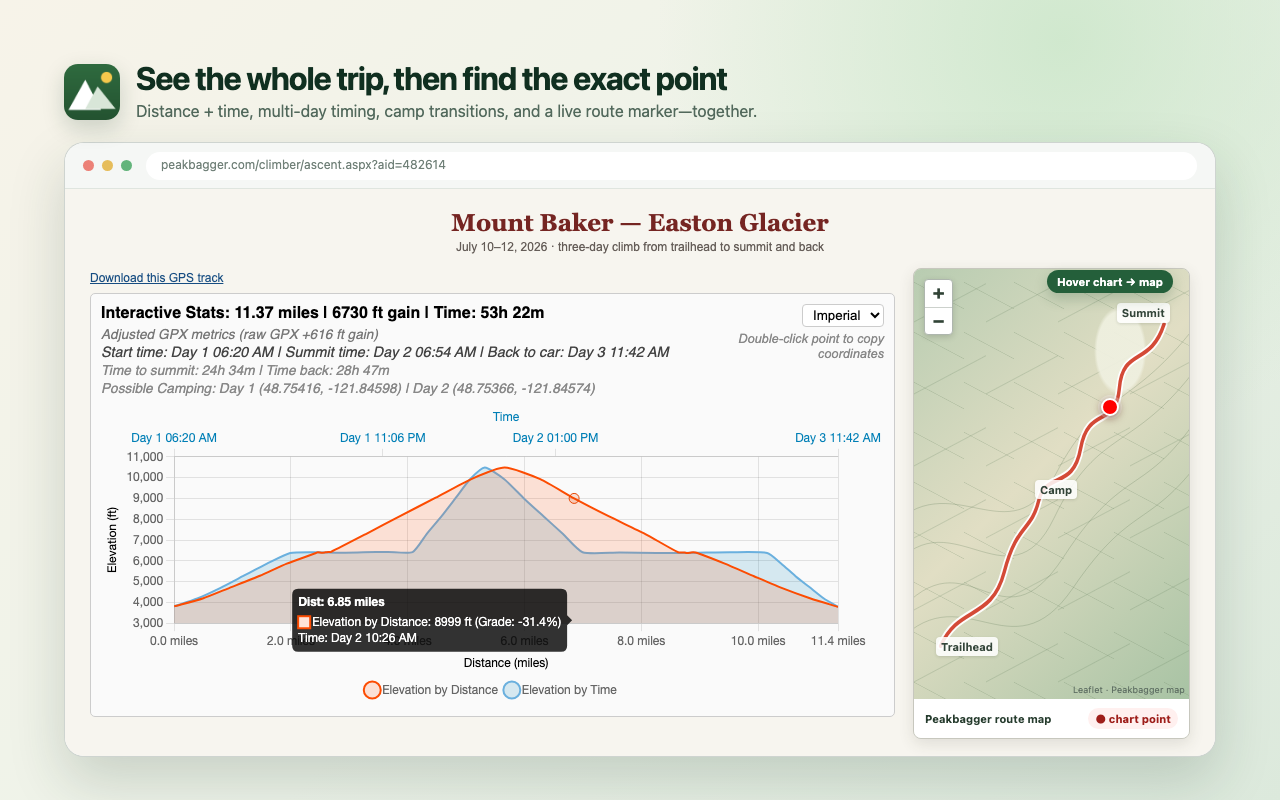
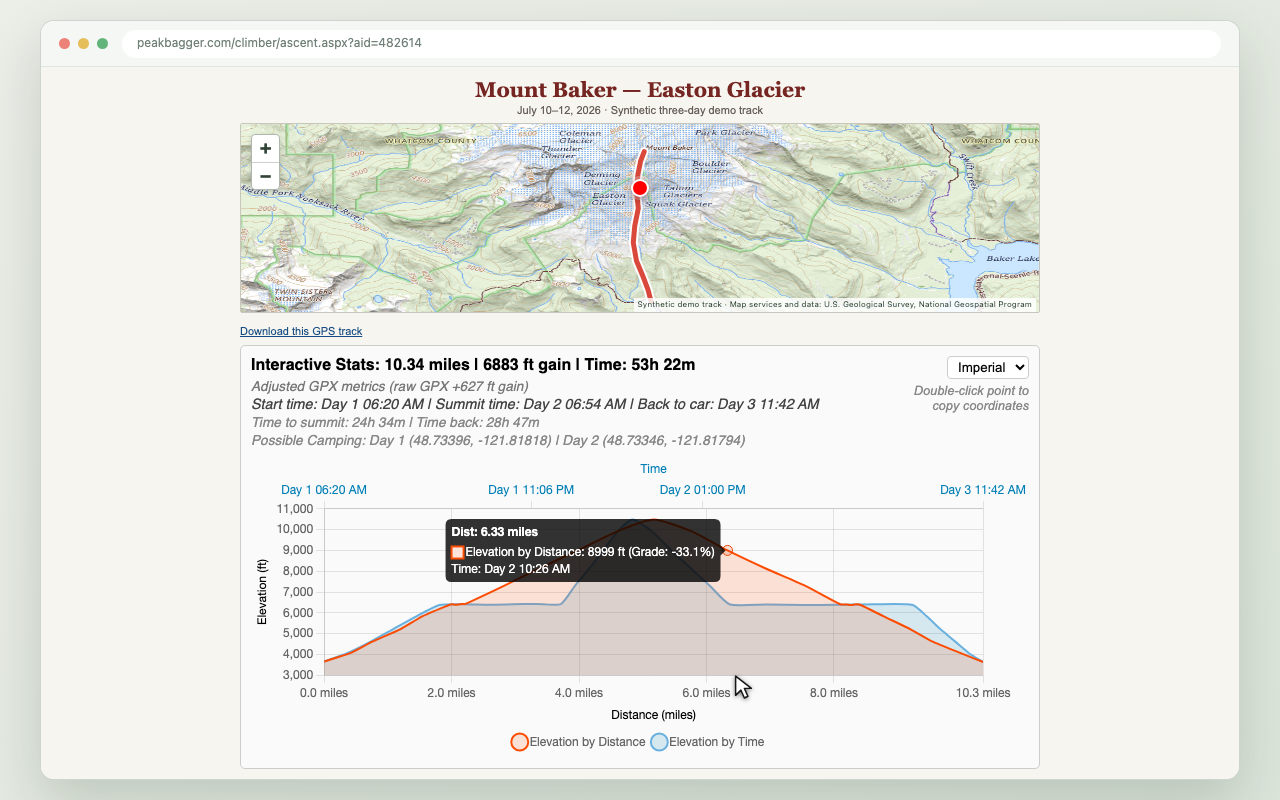
docs: rebuild realistic GPX showcase

diff --git a/scripts/showcase/showcase.css b/scripts/showcase/showcase.css
@@ -239,66 +239,71 @@ body {
 
 /* GPX scene --------------------------------------------------------------- */
 
+.gpx-showcase-page {
+    background: linear-gradient(145deg, #eceee8 0%, #dce5da 100%);
+}
+
+.gpx-showcase {
+    padding: 20px 40px;
+}
+
+.gpx-showcase .browser {
+    height: 760px;
+    margin-top: 0;
+    border-radius: 14px;
+}
+
 .gpx-stage {
     position: relative;
     height: calc(100% - 46px);
-    padding: 20px 25px 18px;
+    overflow: hidden;
+    padding: 11px 25px 12px;
     color: #291d19;
     background: #f7f5ef;
     font-family: Arial, Helvetica, sans-serif;
 }
 
-.gpx-title { text-align: center; }
-.gpx-title h2 { margin: 0; color: #752522; font-family: Georgia, serif; font-size: 24px; }
-.gpx-title p { margin: 4px 0 0; color: #655d58; font-size: 12px; }
-
-.gpx-columns {
-    display: grid;
-    grid-template-columns: 805px 1fr;
-    gap: 18px;
-    align-items: start;
-    margin-top: 14px;
+.gpx-page {
+    width: 800px;
+    margin: 0 auto;
 }
 
-.analyzer-column > a { color: #174d82; font-size: 12px; }
-.analyzer-column > div { width: 100%; max-width: none !important; margin-top: 7px !important; }
-.analyzer-column > div > div:first-child > div:last-child { flex: 0 0 155px; }
-.analyzer-column > div > div:first-child > div:last-child > div { max-width: 155px; text-align: right; }
+.gpx-title { text-align: center; }
+.gpx-title h2 { margin: 0; color: #752522; font-family: Georgia, serif; font-size: 21px; }
+.gpx-title p { margin: 2px 0 0; color: #655d58; font-size: 11px; }
+
+.analyzer-column > a { color: #174d82; font-size: 11px; }
+.analyzer-column > div { margin-top: 6px !important; }
+.analyzer-column > div > div:first-child > div:last-child { flex: 0 0 145px; }
+.analyzer-column > div > div:first-child > div:last-child > div { max-width: 145px; text-align: right; }
 .analyzer-column canvas { max-width: 100%; }
 
 .map-card {
     position: relative;
+    width: 800px;
+    height: 190px;
+    margin: 7px 0 8px;
     overflow: hidden;
     border: 1px solid #c7c7be;
-    border-radius: 8px;
+    border-radius: 2px;
     background: #e4eadc;
-    box-shadow: 0 5px 15px rgba(57, 54, 43, .12);
 }
 
-.map-card iframe { display: block; width: 100%; height: 430px; border: 0; }
+.map-card iframe { display: block; width: 100%; height: 190px; border: 0; }
 
-.map-caption {
-    display: flex;
-    align-items: center;
-    justify-content: space-between;
-    padding: 9px 11px;
-    color: #555a53;
-    background: #fff;
-    font: 11px/1.2 -apple-system, BlinkMacSystemFont, "Segoe UI", sans-serif;
-}
-
-.map-caption strong { color: #263c2e; }
-.live-pill { border-radius: 999px; padding: 4px 7px; color: #9e1e1a; background: #fff0ef; font-weight: 750; }
-
-.feature-badge {
+.showcase-cursor {
     position: absolute;
-    z-index: 4;
-    right: 42px;
-    top: 81px;
-    border-radius: 999px;
-    padding: 6px 10px;
-    color: #fff;
-    background: #245f3a;
-    box-shadow: 0 6px 14px rgba(21, 74, 40, .22);
-    font: 700 11px/1 -apple-system, BlinkMacSystemFont, "Segoe UI", sans-serif;
+    z-index: 6;
+    width: 21px;
+    height: 27px;
+    transform: translate(5px, 4px);
+    pointer-events: none;
+    filter: drop-shadow(0 1px 2px rgba(0, 0, 0, .5));
+}
+
+.showcase-cursor svg { display: block; width: 100%; height: 100%; }
+.showcase-cursor path { fill: #fff; stroke: #171717; stroke-width: 1.7; stroke-linejoin: round; }
+
+@media (prefers-reduced-motion: reduce) {
+    .showcase-cursor { transition: none; }
 }

diff --git a/scripts/showcase/map.html b/scripts/showcase/map.html
@@ -9,32 +9,16 @@
     html, body { width: 100%; height: 100%; margin: 0; overflow: hidden; }
     body {
       position: relative;
-      background:
-        radial-gradient(ellipse at 75% 19%, rgba(239,240,224,.92) 0 8%, transparent 9%),
-        linear-gradient(28deg, transparent 47%, rgba(112,137,103,.28) 48%, transparent 49%) 0 0/50px 50px,
-        linear-gradient(152deg, transparent 47%, rgba(95,124,91,.22) 48%, transparent 49%) 0 0/72px 72px,
-        linear-gradient(135deg, #b8ccb1 0%, #e1dec4 46%, #a8c3a4 100%);
+      background: #e8e8dc;
       font: 11px/1.2 -apple-system, BlinkMacSystemFont, "Segoe UI", sans-serif;
       color: #314336;
     }
 
-    svg { position: absolute; inset: 0; width: 100%; height: 100%; }
-    .route-shadow { fill: none; stroke: rgba(255,255,255,.95); stroke-width: 8; stroke-linecap: round; stroke-linejoin: round; }
-    .route { fill: none; stroke: #d44a37; stroke-width: 4; stroke-linecap: round; stroke-linejoin: round; }
-    .contour { fill: none; stroke: rgba(79,108,75,.25); stroke-width: 1; }
-
-    .label {
-      position: absolute;
-      border-radius: 4px;
-      padding: 3px 5px;
-      color: #34463a;
-      background: rgba(255,255,255,.86);
-      box-shadow: 0 1px 3px rgba(37,55,42,.15);
-      font-weight: 700;
-    }
-    .trailhead { left: 8%; bottom: 10%; }
-    .camp { left: 44%; top: 49%; }
-    .summit { right: 7%; top: 8%; }
+    .basemap, svg { position: absolute; inset: 0; width: 100%; height: 100%; }
+    .basemap { object-fit: cover; }
+    .route-shadow, .route { fill: none; stroke-linecap: round; stroke-linejoin: round; vector-effect: non-scaling-stroke; }
+    .route-shadow { stroke: rgba(255,255,255,.96); stroke-width: 9; }
+    .route { stroke: #d9483b; stroke-width: 5; }
 
     .leaflet-control {
       position: absolute;
@@ -49,7 +33,15 @@
     }
     .leaflet-control b { width: 27px; height: 27px; text-align: center; font-size: 19px; line-height: 25px; }
     .leaflet-control b + b { border-top: 1px solid #ccd1cc; }
-    .attribution { position: absolute; right: 4px; bottom: 3px; color: #607064; font-size: 9px; }
+    .attribution {
+      position: absolute;
+      right: 3px;
+      bottom: 2px;
+      padding: 2px 4px;
+      color: #394d40;
+      background: rgba(255,255,255,.82);
+      font-size: 8px;
+    }
 
     .track-marker {
       position: absolute;
@@ -66,27 +58,44 @@
   </style>
 </head>
 <body>
-  <svg viewBox="0 0 320 430" preserveAspectRatio="none" aria-hidden="true">
-    <path class="contour" d="M-20 345 C65 260 99 387 174 288 S270 234 344 130"/>
-    <path class="contour" d="M-25 379 C55 298 112 411 185 319 S275 266 350 171"/>
-    <path class="contour" d="M-30 305 C38 220 110 344 163 249 S257 187 338 88"/>
-    <path class="contour" d="M-30 261 C42 191 112 292 165 205 S252 143 332 52"/>
-    <path class="route-shadow" d="M31 377 C52 336 90 352 105 303 S136 263 145 232 S185 222 194 179 S235 160 239 119 S275 98 291 55"/>
-    <path class="route" d="M31 377 C52 336 90 352 105 303 S136 263 145 232 S185 222 194 179 S235 160 239 119 S275 98 291 55"/>
+  <img class="basemap" src="/scripts/showcase/usgs-topo.png" alt="">
+  <svg viewBox="0 0 1000 1000" preserveAspectRatio="none" aria-hidden="true">
+    <polyline class="route-shadow" id="route-shadow"/>
+    <polyline class="route" id="route"/>
   </svg>
-  <span class="label trailhead">Trailhead</span>
-  <span class="label camp">Camp</span>
-  <span class="label summit">Summit</span>
   <span class="leaflet-control"><b>+</b><b>−</b></span>
-  <span class="attribution">Leaflet · Peakbagger map</span>
+  <span class="attribution">Synthetic demo track · Map services and data: U.S. Geological Survey, National Geospatial Program</span>
 
   <script>
-    const map = window.mapsPlaceholder = {};
+    const bounds = { west: -122.005, east: -121.625, south: 48.699875, north: 48.790125 };
+    const routePoints = [
+      [48.7061, -121.8098],
+      [48.7114, -121.8112],
+      [48.7183, -121.8138],
+      [48.7252, -121.8167],
+      [48.7338, -121.8182],
+      [48.7417, -121.8175],
+      [48.7501, -121.8158],
+      [48.7584, -121.8167],
+      [48.7661, -121.8160],
+      [48.7725, -121.8147],
+      [48.7770, -121.8130]
+    ];
+
     const pointToPercent = ([lat, lon]) => {
-      const x = 9 + ((lon + 121.88) / .07) * 82;
-      const y = 89 - ((lat - 48.72) / .08) * 80;
-      return [Math.max(5, Math.min(95, x)), Math.max(5, Math.min(95, y))];
+      const x = ((lon - bounds.west) / (bounds.east - bounds.west)) * 100;
+      const y = ((bounds.north - lat) / (bounds.north - bounds.south)) * 100;
+      return [Math.max(1, Math.min(99, x)), Math.max(1, Math.min(99, y))];
     };
+
+    const projectedRoute = routePoints.map(point => {
+      const [x, y] = pointToPercent(point);
+      return `${(x * 10).toFixed(2)},${(y * 10).toFixed(2)}`;
+    }).join(' ');
+    document.getElementById('route-shadow').setAttribute('points', projectedRoute);
+    document.getElementById('route').setAttribute('points', projectedRoute);
+
+    const map = window.mapsPlaceholder = {};
 
     window.L = {
       circleMarker(latLng, options) {

diff --git a/scripts/showcase/gpx.html b/scripts/showcase/gpx.html
@@ -16,36 +16,26 @@
     });
   </script>
 </head>
-<body>
-  <main class="showcase">
-    <header class="showcase-head">
-      <span class="showcase-logo" aria-hidden="true"></span>
-      <div>
-        <h1>See the whole trip, then find the exact point</h1>
-        <p class="showcase-subtitle">Distance + time, multi-day timing, camp transitions, and a live route marker—together.</p>
-      </div>
-    </header>
-
+<body class="gpx-showcase-page">
+  <main class="showcase gpx-showcase">
     <section class="browser">
       <div class="browser-bar">
         <span class="traffic-lights"><i></i><i></i><i></i></span>
         <div class="address">peakbagger.com/climber/ascent.aspx?aid=482614</div>
       </div>
       <div class="gpx-stage">
-        <div class="gpx-title">
-          <h2>Mount Baker — Easton Glacier</h2>
-          <p>July 10–12, 2026 · three-day climb from trailhead to summit and back</p>
-        </div>
-        <div class="gpx-columns">
-          <div class="analyzer-column">
-            <a href="/scripts/showcase/multiday.gpx">Download this GPS track</a>
+        <div class="gpx-page">
+          <div class="gpx-title">
+            <h2>Mount Baker — Easton Glacier</h2>
+            <p>July 10–12, 2026 · Synthetic three-day demo track</p>
           </div>
           <aside class="map-card">
             <iframe src="/scripts/showcase/MasterMap.aspx" title="Peakbagger Leaflet route map"></iframe>
-            <div class="map-caption"><strong>Peakbagger route map</strong><span class="live-pill">● chart point</span></div>
           </aside>
+          <div class="analyzer-column">
+            <a href="/scripts/showcase/multiday.gpx">Download this GPS track</a>
+          </div>
         </div>
-        <span class="feature-badge">Hover chart → map</span>
       </div>
     </section>
   </main>
@@ -69,6 +59,17 @@
       chart.tooltip.setActiveElements(active, { x: point.x, y: point.y });
       chart.options.onHover(null, active, chart);
       chart.update();
+
+      let cursor = canvas.parentElement.querySelector('.showcase-cursor');
+      if (!cursor) {
+        cursor = document.createElement('span');
+        cursor.className = 'showcase-cursor';
+        cursor.setAttribute('aria-hidden', 'true');
+        cursor.innerHTML = '<svg viewBox="0 0 24 30"><path d="M3 2v22l6-6 4 9 4-2-4-9h8z"/></svg>';
+        canvas.parentElement.append(cursor);
+      }
+      cursor.style.left = `${point.x}px`;
+      cursor.style.top = `${point.y}px`;
       return !!iframe.contentDocument.querySelector('.track-marker');
     };
 